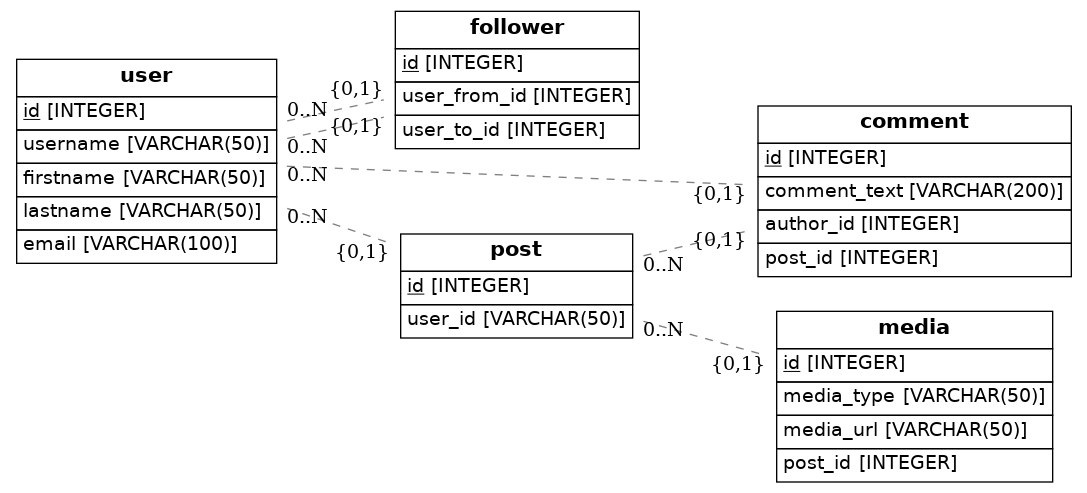
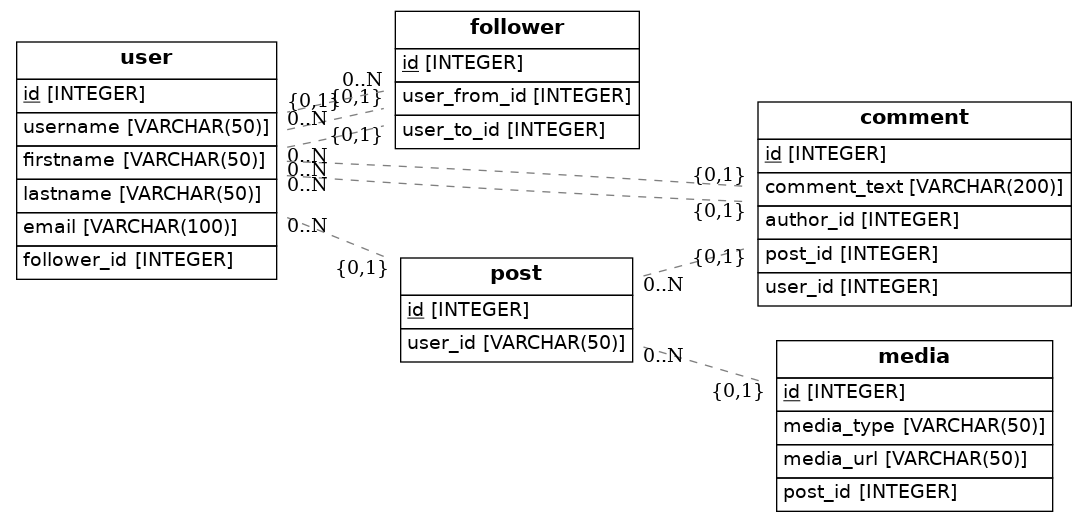
update

diff --git a/src/models.py b/src/models.py
@@ -32,10 +32,12 @@ Base = declarative_base()
 class User(Base):
     __tablename__ = "user"
     id = Column(Integer, primary_key=True)
-    username = Column(String(50))
+    username = Column(String(50), nullable=False )
     firstname = Column(String(50))
     lastname = Column(String(50))
-    email = Column(String(100))
+    email = Column(String(100), nullable=False)
+    comments = relationship("Comment")
+    follower_id = Column(Integer, ForeignKey("follower.id"))
 
 class Follower(Base):
     __tablename__ = "follower"
@@ -43,6 +45,7 @@ class Follower(Base):
     id = Column(Integer, primary_key=True)
     user_from_id = Column(Integer, ForeignKey("user.id"))
     user_to_id = Column(Integer, ForeignKey("user.id"))
+    user_id = relationship("user.id")
 
 class Comment(Base):
     __tablename__ = "comment"
@@ -50,6 +53,7 @@ class Comment(Base):
     comment_text = Column(String(200))
     author_id = Column(Integer, ForeignKey("user.id"))
     post_id = Column(Integer, ForeignKey("post.id"))
+    user_id = Column(Integer, ForeignKey("user.id"))
 
 class Post(Base):
     __tablename__ = "post"
